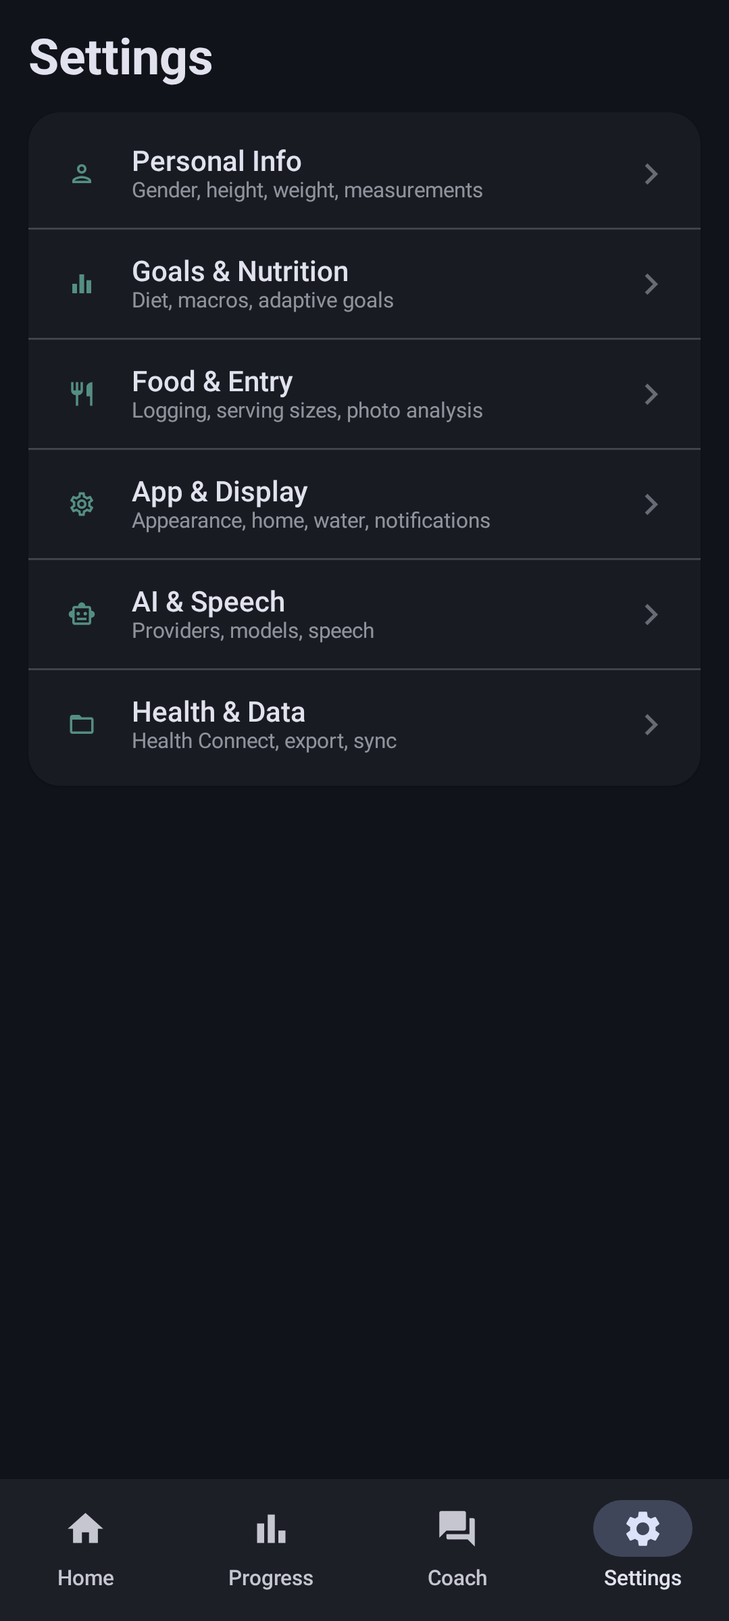
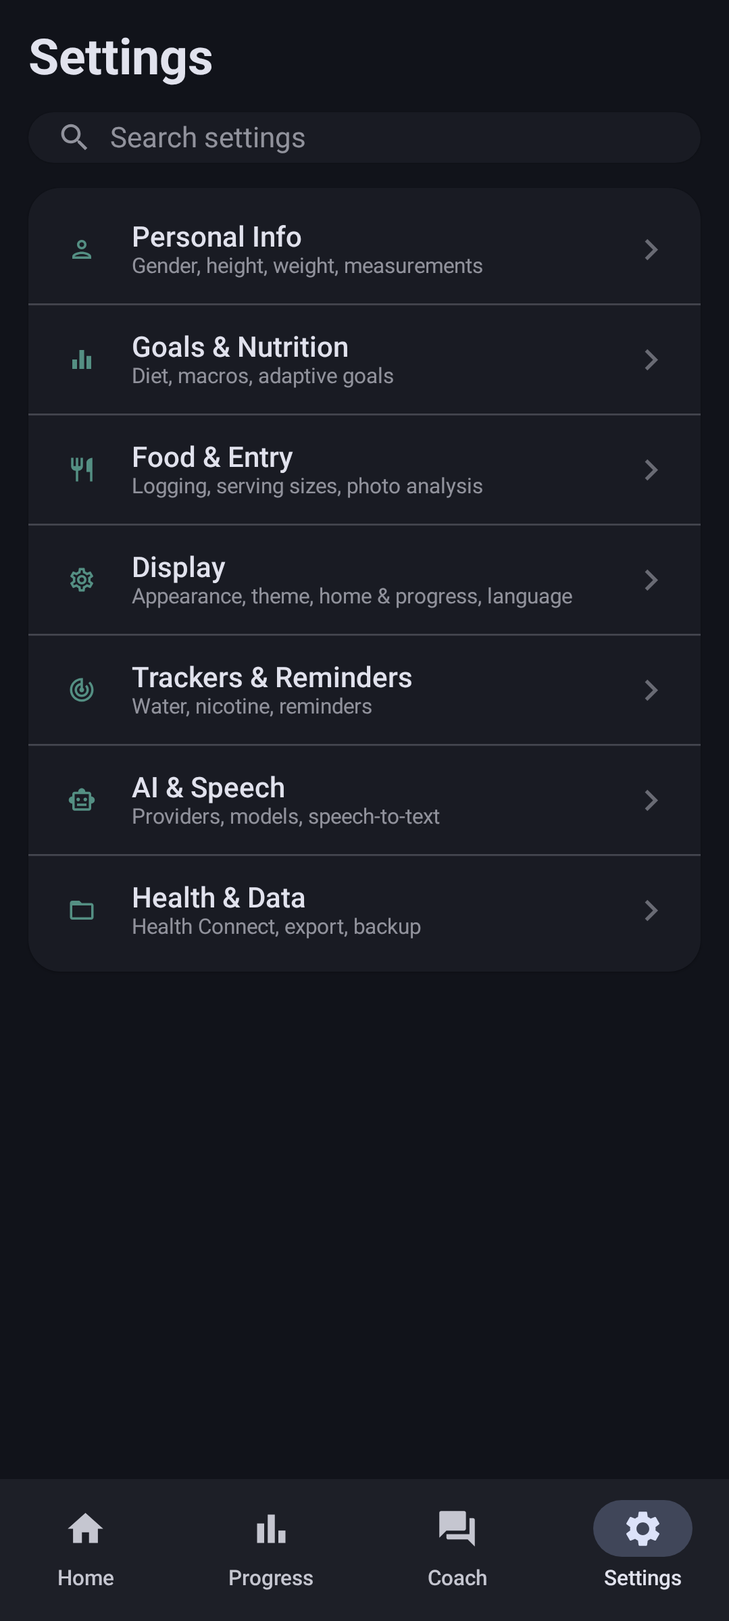
docs+parity: settings findability pass — PARITY row, plan log, screenshots
- PARITY.md settings row: Display / Trackers & Reminders hub split, Units
  row, hub search, Reminders naming; PWA delta noted (still 5-group).
- Plan doc: execution log with deviations (X1 non-issue, U1 resolved as
  'Notifications', 5 new keys caps 35->40, footer decisions, open-question
  resolutions); README index row.
- Refresh settings screenshot references (hub + search field) incl. de/ru.

diff --git a/android/app/src/main/java/app/chompass/ui/settings/SettingsAppSection.kt b/android/app/src/main/java/app/chompass/ui/settings/SettingsAppSection.kt
@@ -1,6 +1,5 @@
 package app.chompass.ui.settings
 
-import androidx.compose.foundation.layout.size
 import androidx.compose.material.icons.Icons
 import androidx.compose.material.icons.automirrored.outlined.ShowChart
 import androidx.compose.material.icons.outlined.Brightness6
@@ -9,12 +8,9 @@ import androidx.compose.material.icons.outlined.Language
 import androidx.compose.material.icons.outlined.Palette
 import androidx.compose.material.icons.outlined.Star
 import androidx.compose.material3.HorizontalDivider
-import androidx.compose.material3.Text
 import androidx.compose.runtime.Composable
 import androidx.compose.runtime.getValue
-import androidx.compose.ui.Modifier
 import androidx.compose.ui.res.stringResource
-import androidx.compose.ui.unit.dp
 import androidx.navigation.NavHostController
 import app.chompass.R
 import app.chompass.ui.navigation.ChompassRoutes

diff --git a/android/app/src/main/java/app/chompass/ui/settings/SettingsScreenPreview.kt b/android/app/src/main/java/app/chompass/ui/settings/SettingsScreenPreview.kt
@@ -155,6 +155,8 @@ internal fun SettingsScreenPreviewContent(
                 color = MaterialTheme.colorScheme.onBackground,
             )
 
+            SettingsSearchField(query = "", onQueryChange = {})
+
             FudGlassSurface(
                 modifier = Modifier.fillMaxWidth(),
                 cornerRadius = AppRadii.Container,

diff --git a/android/app/src/main/java/app/chompass/ui/settings/SettingsScreen.kt b/android/app/src/main/java/app/chompass/ui/settings/SettingsScreen.kt
@@ -163,7 +163,7 @@ fun SettingsScreen(container: AppContainer, nav: NavHostController) {
 
 /** Glass search field: magnifier, inline clear button, no label. */
 @Composable
-private fun SettingsSearchField(
+internal fun SettingsSearchField(
     query: String,
     onQueryChange: (String) -> Unit,
 ) {

diff --git a/docs/SETTINGS_FINDABILITY_PLAN.md b/docs/SETTINGS_FINDABILITY_PLAN.md
@@ -1,0 +1,285 @@
+# Settings Findability & Grouping Plan (2nd pass)
+
+Status: **WIP 2026-02-13** — analysis complete; implementation started (Phases 1–4 landed in commits `31a195c4`…`85c7e21a`; Phase 5 parity/docs pending).
+
+Successor to the archived [`SETTINGS_OVERHAUL_PLAN.md`](archive/SETTINGS_OVERHAUL_PLAN.md)
+(shipped 3.10.0: per-domain sub-screens, cross-links, suggestions). That pass
+fixed the big structural problems; this pass targets what remains: items that
+are still hard to reach, inconsistently grouped, or mislabeled.
+
+Scope: Android `ui/settings/` + the routes/nav that reach it, plus the PWA
+`settings-view.js` mirror labels and `docs/PARITY.md` (settings is a *shared*
+matrix row).
+
+## 1. Current state (inventory)
+
+Hub (`SettingsScreen.kt`): 6 groups + About card + dismissible Suggestions card.
+
+| Hub group | Screen(s) behind it | Rows on screen |
+|-----------|--------------------|----------------|
+| Personal Info | `SETTINGS_PERSONAL` | Gender, Birthday, Height, Weight, Body Fat, Use-BF-for-BMR, Goal Body Fat, Body Measurements link |
+| Goals & Nutrition | `SETTINGS_GOALS` | "How targets work" card, Weight Goal, Diet Mode, (Keto ×2), Activity, Weekly Change, Goal Weight, Adaptive Goals, Energy Burn, Calories + 3 macros (lockable), Other Nutrient Goals, Water goal link, Recalculate, Recalc details, Calculation Methods |
+| Food & Entry | `SETTINGS_FOOD` | Logging (grams default, sort, meal times), Photo analysis (note prompt, portion clarify, constituents), Serving size (mode, heuristics) |
+| App & Display | `SETTINGS_APP` | Home Display link, Appearance, Language, Theme Color (inline dropdown), Fixed Launcher Icon, Week Starts On, Customize Progress, Water link, Nicotine link, Notifications link |
+| AI & Speech | `SETTINGS_AI` | AI master switch, Coach tab, Provider, Model, (Vision model), (Reasoning), (API key), (Base URL + insecure HTTP), (On-device model), (Max tokens), (Read timeout), (Gemini search), Serving-unit link · **Custom AI Instructions** · **Fallback Provider** · **Speech-to-Text** |
+| Health & Data | `SETTINGS_DATA` | Health Connect, Manage access, (Background sync), Safety/medical expander, Export diary, Export body metrics, Import diary, Import body metrics, Sync link · **Danger zone** (clear food log, delete all) |
+| About | on hub | Update check, Share, Open source, Asset credits, Upstream, Report issue, Request feature, Privacy, Donate |
+
+Deeper sub-screens not on the hub: Water, Nicotine, Notifications, Sync
+(4× `from=` routes), Home Display, Customize Progress, Optional Nutrient Goals,
+Calculation Methods, Body Measurements. Total surface ≈ **120 settings across
+15 screens**.
+
+## 2. Problems found (evidence-based)
+
+### Findability
+
+- **F1 — No search.** The archived plan's P6 ("no search") never shipped. With
+  ~120 settings across 15 screens and a 6-row hub, the only way to find a
+  setting is to know which group it is in. Highest-value fix in this pass.
+- **F2 — Units have no home.** Metric/Imperial is set only during onboarding or
+  *inside* the Height/Weight/Goal-Weight sheets (`SettingsSheets.kt` HEIGHT /
+  WEIGHT / GOAL_WEIGHT pass `onUnitChange`). There is no standalone "Units"
+  row. `settings_metric_units` exists in all 16 locales but is **dead code**
+  (referenced nowhere). A post-onboarding user who wants imperial must guess:
+  Personal → Height → toggle unit inside the sheet.
+- **F3 — Home water "auto" badge lands on the Settings hub, not Water.**
+  `HomeScreen.kt:512` `WaterProgressRow(onAutoClick = onOpenSettings)` → hub
+  top; the user must re-drill App & Display → Water → Dynamic goal. The badge
+  is the one place the Home screen points at a specific setting and it points
+  at the wrong level.
+- **F4 — Speech-to-Text buried at the bottom of a 20+ row AI screen.**
+  `AiSettingsScreen.kt` renders AI → Custom Instructions → Fallback → Speech.
+  Speech is a distinct concern (own provider, key, language, privacy note) with
+  3 rows of its own, but it sits after Fallback Provider, which is itself a
+  niche feature. The hub label "AI & Speech" names it, but within the screen it
+  is the last card.
+- **F5 — Trackers live inside "App & Display".** The group mixes look & feel
+  (appearance, theme, language, launcher icon) with trackers (water, nicotine)
+  and reminders (notifications). The hub summary (`settings_group_app_summary`)
+  says "Appearance, home, water, notifications" and does not mention nicotine
+  at all. A user looking for water/nicotine from the hub must know they are
+  filed under "App & Display".
+- **F6 — Progress settings are 3 levels deep with no entry from Progress.**
+  `weekStartDay` feeds Home's WeekStrip (`HomeScreen.kt:115`) and
+  `progressDefaultRangeId` feeds Progress; both are edited only under
+  Settings → App & Display → (Week Starts On / Customize Progress). The
+  Progress tab has no settings affordance (`ProgressScreen.kt` references
+  settings only in a comment).
+- **F7 — Sync/backup reachable only via Health & Data (or the 14-day
+  suggestion).** Acceptable as the only destination, but the hub summary says
+  "Health Connect, export, sync" — "backup" is the user word; consider wording.
+
+### Understanding
+
+- **U1 — "Notifications" vs "Reminders" naming split.** Screen title
+  "Notifications" (`settings_notifications`), inner card "Reminders"
+  (`settings_section_notifications`), hub row "Notifications", suggestion
+  "Turn on **reminders** for streaks and goals", body copy "Choose which
+  **reminders** Chompass sends". Two vocabularies for one feature.
+- **U2 — "How your targets work" is a static text dump.** Three stacked
+  `bodySmall` paragraphs (adaptive, energy-burn, lock semantics) before the
+  rows they explain; the Energy Burn line references Health Connect before the
+  user has seen the toggle. Works, but it is the first thing on the screen and
+  the longest.
+- **U3 — AI screen complexity.** Master switch + Coach tab + provider/model +
+  fallback + on-device + custom instructions is a lot of interdependent state;
+  the per-provider privacy footnotes are good but arrive after the user has
+  already committed to a provider.
+
+### Function
+
+- **X1 — About card runs an update check on every hub visit.**
+  `AboutSettingsRows` fires `AndroidUpdateChecker.check` in
+  `LaunchedEffect(currentVersion)` each time the Settings tab composes
+  (tab switch recreates the composable via `restoreState`). Each hub visit = a
+  network call to the Codeberg releases API for an informational row (F-Droid
+  is the real update channel). Should be cached with a TTL, not re-checked.
+- **X2 — Water goal has 3 entry points** (Goals cross-link row, App & Display
+  row, Water screen) plus 2 suggestion rows. Values stay consistent, but the
+  duplication is a symptom of the missing "Trackers" grouping (F5).
+
+### Consistency
+
+- **C1 — Theme Color uses an inline `DropdownMenu` while Appearance, Language
+  and Week Starts On open sheets.** Same kind of single-choice picker, two
+  interaction patterns. The dropdown also needs a fragile zero-size anchor
+  `Box(Modifier.align(Alignment.BottomEnd))` hack (`SettingsAppSection.kt`) to
+  position under the row's trailing edge.
+- **C2 — "Related" footer used on only 2 of 7 sub-screens.** Water and
+  Notifications have it; Goals (links Water goal + Calculation Methods), AI
+  (links Food & Entry serving), Data (links Sync inline) do not. Rule C of the
+  archived plan applied inconsistently.
+- **C3 — Screen title vs inner card label mismatch.** App screen title is
+  "App & Display" (`settings_group_app_display`) but its section card says
+  "App Settings" (`settings_section_app`). Notifications screen title
+  "Notifications" vs card "Reminders" (U1).
+- **C4 — Duplicated group labels.** Screen title and section card repeat the
+  group name on Personal, Goals, Health & Data ("Health & Data" card + "Danger
+  zone" card under a "Health & Data" screen title). Harmless, but adds vertical
+  noise where a single title would do.
+
+## 3. Goals and non-goals
+
+**Goals**
+1. Every setting reachable in ≤2 taps from the hub (or via search in 1).
+2. One obvious home per concept (units, trackers, progress display).
+3. One vocabulary per feature (reminders), consistent interaction patterns.
+4. No dead strings, no repeated network work.
+
+**Non-goals**
+- No new settings features (no new toggles/behaviors beyond re-homing).
+- No PWA behavior change beyond label/group parity on the settings hub.
+- No formula/data/contract changes (settings prefs are Android-local).
+
+## 4. Proposed changes
+
+### Phase 1 — Naming & consistency quick wins (small commits, no nav changes)
+
+1. **U1/C3 — pick "Reminders" as the feature name.** `settings_notifications`
+   → "Reminders" (screen title + hub row + App & Display row + suggestion text
+   already says reminders). Keep the word "Notifications" only where it means
+   the OS permission channel ("Notifications are off — allow them in system
+   settings" style copy). Mirrors the PWA? (PWA hub uses "App"; check its
+   reminders label and align.)
+2. **C3 — App & Display card label** `settings_section_app` "App Settings" →
+   "App & Display" (or whatever Phase 3 renames the group to).
+3. **C1 — Theme Color → sheet.** Replace the inline dropdown + anchor hack with
+   the standard `SettingsSheet.THEME_COLOR` sheet flow (swatch list like
+   `AppearanceSheet`). Removes the zero-size-anchor fragility.
+4. **X1 — cache update check.** Hold update state in a container-level holder
+   with a TTL (e.g., 6 h) so hub visits don't re-hit the network; add a manual
+   refresh row tap (already exists for Idle/Failed).
+5. **C2 — "Related" footers on remaining sub-screens.** Goals → (Water,
+   Calculation Methods); AI → (Food & Entry); Personal → (Body Measurements).
+   Small, mechanical.
+6. **U2 — tighten the "How your targets work" card.** Convert the three
+   paragraphs to one short intro + the info-dialog pattern already used by the
+   Adaptive/Energy toggles (or keep text but drop it below the toggles it
+   explains).
+
+### Phase 2 — Give Units a home (F2)
+
+7. Add a **Units** row at the top of Personal Info (below/above the profile
+   rows) opening a sheet that sets `heightUnit` + `weightUnit` together
+   (single Metric/Imperial toggle, mirroring onboarding's
+   `OnboardingProfileSteps`). In-sheet unit toggles on Height/Weight remain as
+   quick overrides.
+8. Wire the orphaned `settings_metric_units` string into the new row (removes
+   dead string across all 16 locales), or delete the string if the row uses a
+   combined label.
+
+### Phase 3 — Re-group: trackers out of "App & Display" (F5, F6, F4)
+
+9. **Split the hub group.** "App & Display" → **Display** (appearance, theme,
+   language, fixed launcher icon, Home Display, Customize Progress) and a new
+   **Trackers & Reminders** group row (Water, Nicotine, Notifications) that
+   navigates straight to the existing `water/nicotine/notifications` routes
+   (drop the now-redundant cross-link rows from the Display screen). Hub grows
+   6 → 7 groups; update `settings_group_*_summary` strings to name nicotine and
+   reminders explicitly.
+10. **Progress entry point.** Add a small "Customize" affordance on the
+    Progress screen header → `CUSTOMIZE_PROGRESS`; move **Week Starts On** into
+    the Customize Progress screen (it is a calendar/progress preference, and it
+    removes a row from Display).
+11. **Speech reorder** (F4): in `AiSettingsScreen.kt` render AI → **Speech** →
+    Custom Instructions → Fallback, and extend the hub summary to say
+    "Providers, models, speech-to-text". (Keep Speech in the AI screen; a
+    dedicated screen is overkill for 3 rows.)
+12. **Backup wording** (F7): Data hub summary "Health Connect, export, backup"
+    (mentions the user word), and keep the Sync row + suggestion as-is.
+
+### Phase 4 — Settings search (F1)
+
+13. New `ui/settings/SettingsIndex.kt`: a static, offline registry of every
+    setting: `(group, label, keywords, route)` — keywords include synonyms
+    ("units", "imperial", "ml", "reminder", "backup", "webdav"). Conditional
+    rows (keto, on-device, heuristics) get a group tag so search still finds
+    them.
+14. Hub gains a **search field** under the title (or a search icon opening a
+    results screen). Typing filters the index; each result shows group context
+    and navigates on tap. Route builders for the 4 `from=` routes; plain routes
+    for the rest. No AI, no data-layer changes; pure UI + registry.
+15. Success bar: any setting findable by typing a word a user would plausibly
+    guess (test with a list of the 120 labels → keywords coverage ≥ 90 %).
+
+### Phase 5 — Verification & parity
+
+16. Update `docs/PARITY.md` settings row: hub group rename (Display +
+    Trackers & Reminders), Units row, search (Android-only unless mirrored),
+    reminders naming.
+17. Mirror hub group labels in PWA `settings-view.js` (it already uses
+    "Personal Info" / "Goals & Nutrition" subpage bars; align Display/Trackers
+    wording if the PWA hub groups change; otherwise note the delta).
+18. Device pass (Windows adb): walk each hub group + search results; check
+    back-label `from=` routing still reads correctly after re-homing;
+    screenshots via `release:screenshots` where the harness covers settings.
+19. `devenv tasks run release:check-parity` + Android unit tests green.
+
+## 5. Strings & locales
+
+Every label change (Phases 1–3) touches `res/values/strings.xml` **and** all
+15 locale variants (`settings_*` keys) plus `testdata/parity/locales.json`
+per the shared-locale contract. New keys: Units row, Display group, Trackers &
+Reminders group, search placeholder/empty state. Dead keys to delete:
+`settings_metric_units` only if the Units row doesn't reuse it.
+
+## 6. Risks / anti-patterns
+
+- **Don't hide dependencies** (archived Rule A): Water reminder toggle must
+  stay visible-and-disabled with its "Needs water tracking" link when tracking
+  is off; the Trackers group must not orphan the `from=` back labels.
+- **Search must not grow scope**: static index only; no fuzzy/AI matching, no
+  result persistence, no deep-link handling.
+- **Hub length**: 7 groups + About + Suggestions is still one screen of
+  scrolling; if it feels long after Phase 3, revisit Suggestions placement
+  (keep — it is the onboarding nudge) before collapsing groups.
+- **Don't re-introduce inline conditionals** (archived P1): keto/on-device rows
+  stay gated where they are; the registry, not the UI, carries discoverability.
+
+## 7. Success criteria
+
+- Every hub group name matches the screen title it opens (no C3-style drift).
+- Units, nicotine, water, progress customization each findable in ≤2 taps or
+  one search.
+- No settings screen > ~16 rows; AI screen no longer the last-resort home for
+  speech.
+- Zero dead strings; hub visit performs zero network calls.
+- PARITY + PWA hub labels agree with Android; parity check green.
+
+## 8. Open questions
+
+1. "Trackers & Reminders" vs "Water, Nicotine & Reminders" — is nicotine
+   significant enough for its own row, or a sub-row of a "Trackers" card?
+   **Executed: Trackers & Reminders group with a dedicated screen** (future
+   trackers like caffeine slot in).
+2. Should the Progress "Customize" affordance be a gear icon or a text chip
+   (consistency with the Home auto-badge pattern)?
+   **Executed: tune icon + "Customize progress" text chip above the range
+   picker.**
+3. Is a full search field on the hub better than a search icon → dedicated
+   screen? **Executed: full search field on the hub** (results replace the
+   group list inline; one less navigation hop).
+4. Reuse `settings_metric_units` as the new Units row label, or add
+   "Units"? **Executed: new `settings_units` "Units" key** (the row shows the
+   current system, not just metric); `settings_metric_units` remains dead but
+   is kept for locale stability.
+
+## 9. Execution log (deviations from the plan)
+
+- **X1 (update check on every hub visit) — dropped as non-issue.**
+  `AndroidUpdateChecker.check` is a no-op in the release build (returns
+  `UpToDate` immediately; F-Droid is the update channel). No network call
+  happens, so no caching work was needed.
+- **U1 resolved as "Notifications" (not "Reminders").** All 15 locale files
+  already translate the feature name as "notifications"; the mismatch was the
+  section card "Reminders" label, which now reuses the screen-title key. Body
+  copy keeps "reminders" as the prose word. Zero retranslation needed.
+- **New-string budget:** 5 new EN-only keys (`settings_units`,
+  `settings_group_trackers` + summary, `settings_search_hint` + empty); locale
+  caps 35 → 40 (same mechanism as the nicotine-tracker bump).
+- **Goals Related footer** carries Water + Calculation Methods (both moved out
+  of the goals card, per the plan's C2). AI/Personal footers were skipped:
+  their cross-links already exist as in-card value rows, so a duplicate footer
+  row would be noise.
+- **C2 footers**: only Goals got a footer; Water/Notifications already had one.

diff --git a/docs/PARITY.md b/docs/PARITY.md
@@ -17,7 +17,7 @@ For formula / wire-format correctness (not feature lists), see:
 | Nicotine tracking (optional) | shared | `ui/home/NicotineViews.kt` (progress row, quick chips, custom count + mg, history sheet with edit/delete), settings sub-screen under App & Display | `components/diary-view.js` (row with +1 kind chips, Custom, Undo), App settings toggle + daily limit | Off by default (`showNicotine`). Count-based entries (`NicotineEntry`: kind cigarette/vape/pouch/gum/patch/other, count, optional mg). Rides sync-1.2 as an **optional** `nicotine_entries` array + `nicotine` revisions kind (old docs parse with an empty array). **Not** in diary export / meal-share; **no Health Connect** (HC has no count-based nicotine record). Stays local + WebDAV sync; never sent to AI providers. Android-only: quick-kind configuration, mg wheel, per-day history edit/delete |
 | Daily notes | shared | `ui/home/DailyNoteSheet.kt` (day-scoped card + bottom-sheet editor, 1000-char plain text) | `components/diary-view.js` note card + textarea | Day journaling (Codeberg #58a): one note per day, day-scoped like the water card (today or any selected past day). Wire: `daily_notes` in sync-1.2 (`contracts/sync-1.2.schema.json`), `days[].note` in diary-1.3; deterministic per-date record id (day count since epoch in the low 48 bits) so both apps merge to last-write-wins per day. Sync + diary export carry notes; backup restore restores them. CSV export stays entry-level (no day-note column) |
 | Progress (weight, BF, measurements, forecast) | shared | `ui/progress/` | `components/progress-*` | FCAST/ADAPT mirrored; interactive chart tips; equal range chips; **configurable default range** (`progressDefaultRangeId`, factory `1W`) with last-viewed precedence; display-only **7-day weight trend** overlay (not Adaptive Goals). **Android-only (2026-08):** `Customize Progress` settings sub-screen + optional per-site body-measurement trend plots (8 sites, off by default, `progressMeasurementSites` empty set; cm/in per height unit; one compact card per enabled site, range-chip filtered): closes Codeberg #18 |
-| Settings (profile, goals, units, AI, data) | shared | `ui/settings/` hub + group sub-screens (Profile / Goals & Nutrition / **Food & Entry** / App & Display [+ **Water**, **Notifications**, **Customize Progress** sub-screens] / AI & Speech / Health & Data [+ **Sync** sub-screen]) | `settings-view.js` hub (Personal / Goals / App / AI / Data / About) | Android 2026-08 settings overhaul: **Food & Entry** group (logging, serving sizes, photo analysis), Water + Notifications + Sync as sub-screens, cross-linked rows between related screens (Goals ↔ Water, Water ↔ Notifications, AI ↔ Food & Entry, Data ↔ Sync), hub **Suggestions** card (dismissible nudges toward water/adaptive-goals/Health Connect/backup/notifications; Android-only), danger-zone separation for destructive actions. **PWA still:** 5-group hub; serving units/photo toggles stay under AI; Water stays under App; sync already a subpage. Custom P/C/F pins; browser speech language; Android-only called out. Accent default `system`; primary AI default `gemini`; food-row chips honor fiber when selected. **Android-only:** “Enter custom value” free-entry on every wheel-picked goal (calories, macros, keto net carbs, optional nutrients). **Goal locks:** Android shows a Locked/Auto chip on each calorie and macro row (tap to pin or release the current number; Recalculate and Adaptive leave Locked rows). PWA locks on Save when a custom calorie/macro field is filled, and Recalculate (AI or formula) honors those flags. **Android-only (2026-08):** appearance modes System / Light / Dark / **OLED** (true-black backgrounds, incl. all 4 Glance widgets; explicit modes also stop the widgets following the system); PWA keeps its own `data-theme` mechanism |
+| Settings (profile, goals, units, AI, data) | shared | `ui/settings/` hub + group sub-screens (Personal Info / Goals & Nutrition / **Food & Entry** / **Display** / **Trackers & Reminders** [+ Water, Nicotine, Reminders, Customize Progress sub-screens] / AI & Speech / Health & Data [+ **Sync** sub-screen]) | `settings-view.js` hub (Personal / Goals / App / AI / Data / About) | Android 2026-08 settings overhaul: **Food & Entry** group (logging, serving sizes, photo analysis), Water + Notifications + Sync as sub-screens, cross-linked rows between related screens (Goals ↔ Water, Water ↔ Notifications, AI ↔ Food & Entry, Data ↔ Sync), hub **Suggestions** card (dismissible nudges toward water/adaptive-goals/Health Connect/backup/notifications; Android-only), danger-zone separation for destructive actions. **Android 2026-02 findability pass:** hub split — **App & Display → Display** (look & feel + home/progress display; Week Starts On moved into Customize Progress) and new **Trackers & Reminders** group (Water / Nicotine / Reminders rows with live state); **Units** row in Personal Info (single Metric/Imperial toggle, mirrors onboarding; was only reachable inside the Height/Weight sheets); **hub search** (offline index of ~65 rows, label + group context, diacritic-insensitive; Android-only); Reminders naming unified (screen title = card label); Goals cross-links moved to a Related footer; Progress tab gains a one-tap **Customize progress** entry. **PWA still:** 5-group hub (no Trackers group, no search, no Units row); serving units/photo toggles stay under AI; Water stays under App; sync already a subpage. Custom P/C/F pins; browser speech language; Android-only called out. Accent default `system`; primary AI default `gemini`; food-row chips honor fiber when selected. **Android-only:** “Enter custom value” free-entry on every wheel-picked goal (calories, macros, keto net carbs, optional nutrients). **Goal locks:** Android shows a Locked/Auto chip on each calorie and macro row (tap to pin or release the current number; Recalculate and Adaptive leave Locked rows). PWA locks on Save when a custom calorie/macro field is filled, and Recalculate (AI or formula) honors those flags. **Android-only (2026-08):** appearance modes System / Light / Dark / **OLED** (true-black backgrounds, incl. all 4 Glance widgets; explicit modes also stop the widgets following the system); PWA keeps its own `data-theme` mechanism |
 | Onboarding | shared | `ui/onboarding/` | `components/onboarding-*` | Birthday + editable plan-ready macros; BF stored as fraction |
 | Food entry (manual, barcode OFF, AI photo/text) | shared | entry flows | entry + `photo-ai-flow` | **Android ahead (2026-08):** lightweight pre-Analyze staging: **text note required by default** before LLM (Skip note & analyze still available; after 3 empty skips offer “Don’t ask for a note again”; Settings → Ask for a photo note); optional label photo + grams; then Analyze morphs into the Log sheet with a ready-gate. Mid-flight tip/add-photo can re-analyze. **PWA still:** multi-photo review + analyze overlay, then FoodResult-like Log. Shared otherwise: **all images** to BYOK; barcode→OFF soft context; progressive phases + streamed partials; quantity/unit picker; constituents; Ask AI to correct; voice; barcode; progressive meal; serving-unit inference. Android-only: heuristic customization, saved-photo reprocess, **relative quantity edits** (`+20` / `-10` deltas in the serving-quantity field), **analysis queue + failure auto-save** (Codeberg #53: failed AI calls persist photos + description; every prompt lands in a 7-day history; staged/queued prompts run later from the Add Food hub — Android-only device state, photos stay local, no sync/contract impact). Shared: **2D matrix codes** (QR / Data Matrix, GS1 GTIN extraction, shared `testdata/parity/barcode-codes.json`); live scan ignores non-product frames and keeps scanning until a GTIN-normalizable code is read (shared picker semantics, `docs/local/PLAN_BARCODE_SCAN_RETRY_FIX.md`) |
 | Food database search (OFF + USDA + Swiss) | android-only | Add Food “Search food” sheet + `FoodDatabaseSearch` | — | Live **Open Food Facts** product/brand search + offline **USDA** (CC0) and **Swiss Food Composition DB** (naehrwertdaten.ch) SQLite indexes, per-source chips and provenance badges; picking a hit prefills the review sheet. Wire `source` = `search`, `grounding.sourceKind` round-trips `usda`/`openFoodFacts`/`swiss`. PWA has no OFF search client yet: parity tracked as follow-up. Offline indexes add ~5.3 MB to release APKs. search path hardened for keystroke cancellation (`cancellableExecute`, no piling-up calls) + serialized offline lookups + `FoodSearch` phase logs (Codeberg #26). |

diff --git a/docs/README.md b/docs/README.md
@@ -49,6 +49,7 @@ status is missing or stale, fix it (release checklist step 3).
 | [`ON_DEVICE_LLM.md`](ON_DEVICE_LLM.md) | Gemma on-device: production Tiers A/B + debug extras |
 | [`DEMO_HERO_FIREFOX.md`](DEMO_HERO_FIREFOX.md) | **OPEN**: Firefox/embedded demo reload loop |
 | [`SECURITY_HARDENING_PLAN.md`](SECURITY_HARDENING_PLAN.md) | Shipped 3.16.0: security/privacy audit + hardening (debug-extras gate, deep-link caps, image bounds, prompt-injection delimiters, PWA CSP); device rehearsal run 2026-08-16 |
+| [`SETTINGS_FINDABILITY_PLAN.md`](SETTINGS_FINDABILITY_PLAN.md) | **WIP**: settings findability pass — Display / Trackers & Reminders hub split, Units row, hub search, naming unification (Android) |
 
 ## Benchmarks
 
